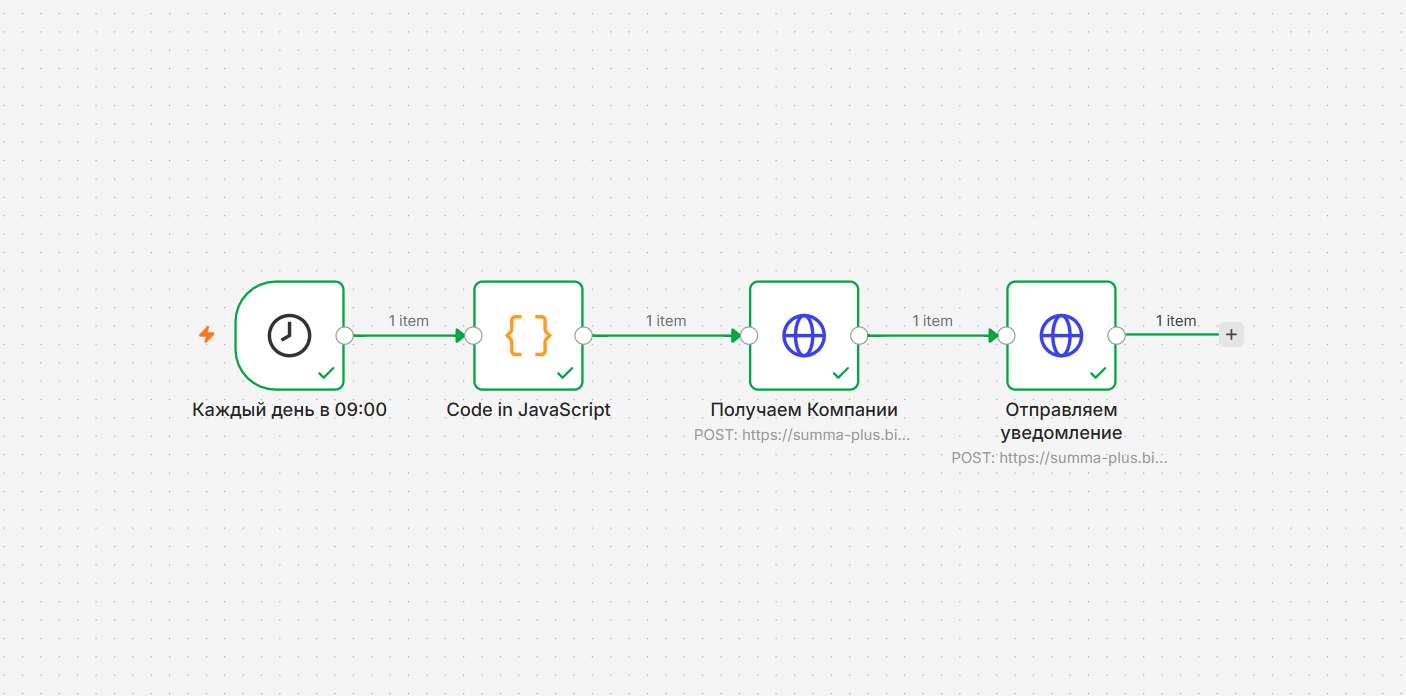
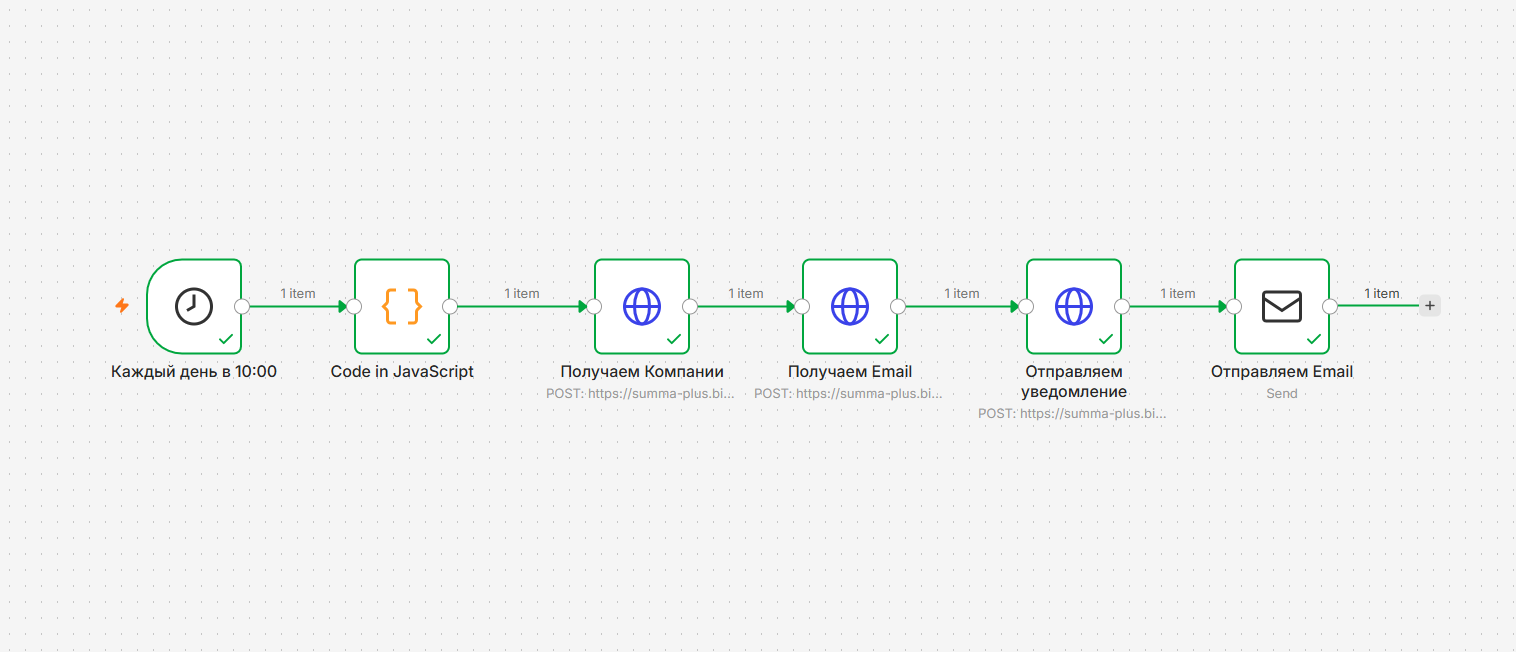
Add email notifications to managers on VK Workmail via n8n

diff --git a/Shipment_notifications/README.md b/Shipment_notifications/README.md
@@ -1,7 +1,7 @@
-# Автоматические уведомления о графиках отгрузок действующих клиентов (n8n + Битрикс24)
+# Автоматические уведомления о графиках отгрузок действующих клиентов (n8n + Битрикс24 + Email)
 
 ### 📌 Описание кейса
-Проект решает проблему отсутствия интеграции между учетной системой 1С и Битрикс24, автоматизируя информирование менеджеров о логистике клиентов без перегрузки CRM-системы.
+Проект решает проблему отсутствия интеграции между учетной системой 1С и CRM, автоматизируя информирование менеджеров о логистике клиентов через чат CRM и корпоративную почту, без перегрузки CRM-системы.
 
 ### 🛠 Какая была проблема?
 На тарифе «Стандартный» в Битрикс24 попытка настроить регулярные уведомления штатными инструментами привязывает компанию к сложной внутренней логике:
@@ -12,20 +12,23 @@
 ### 💡 Реализованное решение (Low-Code обход ограничений)
 Процесс контроля дат и отправки уведомлений полностью перенесен во внешний планировщик на базе платформы **n8n**, развернутой на VPS-сервере:
 1. **Минимум ввода:** Менеджер один раз отмечает галочками фиксированные дни недели в множественном поле карточки Компании.
-2. **Триггер по расписанию:** Сценарий n8n (Cron) автоматически запускается каждый день в 09:00 утра.
+2. **Триггер по расписанию:** Сценарий n8n (Cron) автоматически запускается каждый день -  в 10:00 утра за день до отгрузки
 3. **Расчет даты:** Кастомный скрипт на JavaScript вычисляет, какой день недели будет завтра, и сопоставляет его с системными ID Битрикс24.
 4. **Фильтрация и поиск:** Через метод `crm.company.list` сценарий находит компании, у которых запланирована отгрузка на завтра.
-5. **Точечное уведомление:** Метод `im.message.add` отправляет персональное сообщение в чат Битрикс24 ответственному менеджеру с кликабельной ссылкой на карточку компании.
+5. **Определение ответственного:** Метод `user.get` динамически запрашивает профиль менеджера из Битрикс24 по его `ASSIGNED_BY_ID`, вытаскивая актуальный корпоративный Email.
+6. **Дублированное уведомление:** 
+   * Метод `im.message.add` отправляет персональное сообщение в чат Битрикс24 ответственному менеджеру.
+   * Узел SMTP (через сервер `smtp.mail.ru:465`) автоматически отправляет дублирующее HTML-письмо с кликабельной ссылкой на личную почту менеджера в домене VK Workmail.
 
 ### 🎯 Результат
-* Менеджеры освобождены от рутины: участие человека сведено к одной отметке в карточке клиента.
-* В CRM-системе сохраняется идеальная чистота: уведомления приходят в чат и не плодят «мусорные» просроченные задачи.
-* Логика инкапсулирована на сервере, легко масштабируется и работает автономно в фоновом режиме (24/7).
+- Менеджеры получают информацию по двум каналам одновременно: в CRM и на корпоративную почту, что исключает пропуск отгрузки.
+- Ротация кадров не ломает систему: Email подтягивается динамически из профиля, жесткая привязка к именам отсутствует.
+- В CRM-системе сохраняется идеальная чистота: уведомления приходят в чат и не плодят «мусорные» задачи.
 
 ### 📁 Структура проекта в репозитории
-* Shipment_notifications.json — Обезличенный JSON-файл сценария n8n для импорта.
-* Shipment_notifications_workflow.png — Скриншот схемы рабочего процесса.
-* README.md — Описание проекта.
+- `Shipment_notifications.json` — Обезличенный JSON-файл обновленного сценария n8n для импорта
+- `Shipment_notifications_workflow.png` — Актуальный скриншот схемы рабочего процесса
+- `README.md` — Описание проекта
 
 ### 📸 Схема процесса в n8n
 ![Сценарий автоматизации n8n](Shipment_notifications_workflow.png)